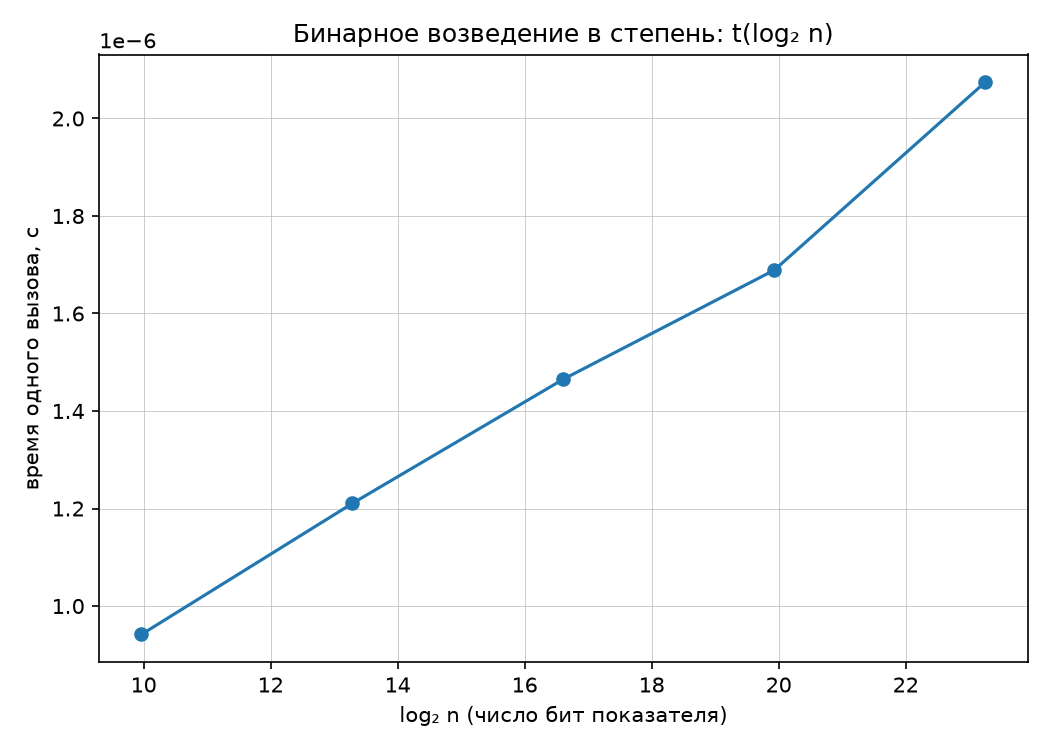
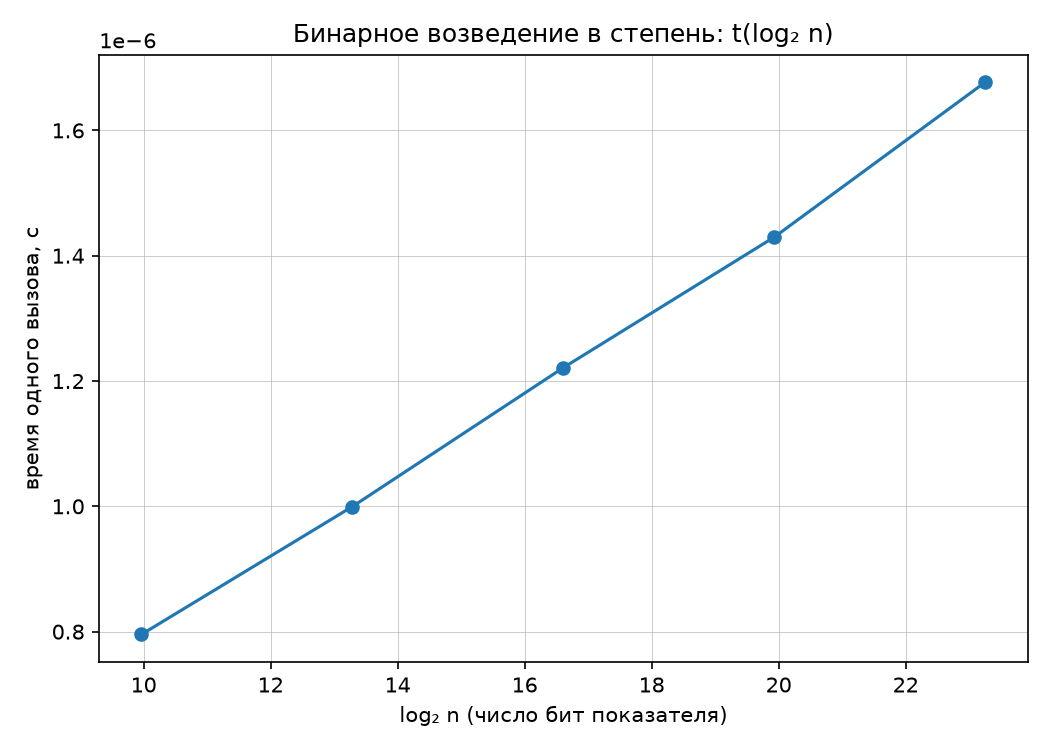
End commit before merge

diff --git a/M1-intro-and-basic-structures/attachments/lab01-complexity-starter.py b/M1-intro-and-basic-structures/attachments/lab01-complexity-starter.py
@@ -94,17 +94,15 @@ def binary_pow(x: int, n: int, mod: int | None = None) -> int:
     """Бинарное возведение в степень, n >= 0. Ожидаемая сложность: O(log n) TODO.
     При заданном mod все умножения выполняются по модулю (результат x**n % mod).
     """
-    if n == 0: return 1
-    if n % 2 == 1:
-        res = binary_pow(x, n - 1, mod)
-        if mod is not None:
-            return (x * res) % mod
-        return x * res
-    b = binary_pow(x, n // 2, mod)
-    if mod is not None:
-        return (b * b) % mod
-    return b * b
-
+    res = 1
+    while n != 0:
+        if n & 1:
+            if mod == None: res = res * x
+            else: res = res * x % mod
+        if mod == None: x *= x
+        else: x = x * x % mod
+        n >>= 1
+    return res
     # TODO: реализовать через квадрирование; при mod применять % mod после
     # каждого умножения
     raise NotImplementedError
